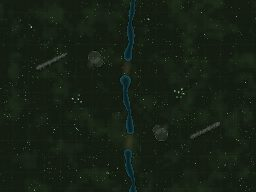
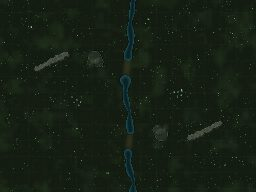
Ridge v3: interlocking angular slabs — a rock formation, not a worm

diff --git a/game.js b/game.js
@@ -5179,80 +5179,95 @@ function paintRidges(g, M) {
     const v = Math.sin(s * 127.1 + i * 311.7) * 43758.545;
     return v - Math.floor(v);
   };
+  // v3 (2026-08-04, after "giant terd"): a ridge is a CLUSTER of overlapping
+  // angular slabs — each its own rock with a dark extruded cliff face (light
+  // from the NW, so faces fall SE) and a two-tone faceted lit top, staggered
+  // off the centerline. One continuous band ALWAYS reads as a worm; multiple
+  // interlocking masses read as a rock formation. Three passes across the
+  // whole cluster (shadows, faces, tops) so overlaps merge into one landform.
   for (const [x1, y1, x2, y2, r] of ((M && M.ridges) || [])) {
     const L = Math.max(1, dist(x1, y1, x2, y2));
     const ax = (x2 - x1) / L, ay = (y2 - y1) / L;
     const nx = -ay, ny = ax;
     const seed = (x1 * 0.7 + y1 * 1.3) % 100;
-    const steps = Math.max(10, Math.round(L / 16));
-    // jagged width per step: coarse drift + per-step rock-tooth jitter,
-    // pinched to broken points at the ends
-    const wAt = (i, sign) => {
-      const t = i / steps;
-      const drift = 0.85 + 0.35 * hn(seed + sign * 7, Math.floor(i / 4));
-      const tooth = 0.75 + 0.5 * hn(seed + sign * 13, i);
-      const endPinch = Math.min(1, Math.min(i, steps - i) / 2.2);
-      return r * drift * tooth * Math.max(0.15, endPinch);
-    };
-    const pt = (i, sign, wMul, ox, oy) => {
-      const t = i / steps;
-      return [x1 + (x2 - x1) * t + nx * sign * wAt(i, sign) * wMul + (ox || 0),
-              y1 + (y2 - y1) * t + ny * sign * wAt(i, sign) * wMul + (oy || 0)];
-    };
-    const band = (wMul, ox, oy) => {
+    // generate the slab list
+    const slabs = [];
+    const spacing = r * 0.85;
+    const n = Math.max(2, Math.round(L / spacing));
+    for (let i = 0; i <= n; i++) {
+      const t = i / n;
+      const off = (hn(seed, i) - 0.5) * r * 0.55;
+      const cxx = x1 + (x2 - x1) * t + nx * off;
+      const cyy = y1 + (y2 - y1) * t + ny * off;
+      const sr = r * (0.72 + hn(seed + 2, i) * 0.55) * (i === 0 || i === n ? 0.8 : 1);
+      const rot = hn(seed + 4, i) * Math.PI * 2;
+      const verts = [];
+      const vn = 7;
+      for (let k = 0; k < vn; k++) {
+        const va = rot + (k / vn) * Math.PI * 2 + (hn(seed + 6, i * 13 + k) - 0.5) * 0.35;
+        const vr = sr * (0.72 + hn(seed + 8, i * 17 + k) * 0.45);
+        verts.push([cxx + Math.cos(va) * vr, cyy + Math.sin(va) * vr]);
+      }
+      slabs.push({ cx: cxx, cy: cyy, sr, verts, i });
+    }
+    const poly = (verts, ox, oy) => {
       g.beginPath();
-      let p = pt(0, 1, wMul, ox, oy); g.moveTo(p[0], p[1]);
-      for (let i = 1; i <= steps; i++) { p = pt(i, 1, wMul, ox, oy); g.lineTo(p[0], p[1]); }
-      for (let i = steps; i >= 0; i--) { p = pt(i, -1, wMul, ox, oy); g.lineTo(p[0], p[1]); }
+      g.moveTo(verts[0][0] + ox, verts[0][1] + oy);
+      for (const [px, py] of verts) g.lineTo(px + ox, py + oy);
       g.closePath();
     };
-    // settling shadow downhill
-    g.fillStyle = 'rgba(0,0,0,0.28)';
-    band(1.05, 8, 12); g.fill();
-    // dark rock mass — the cliff faces ARE this silhouette's edges
-    g.fillStyle = '#252b25';
-    band(1.0, 0, 0); g.fill();
-    // faceted rock top: irregular angular slabs along the crest, two lit
-    // tones alternating, each slab its own quad — no continuous stripe
-    for (let i = 0; i < steps; i += 2) {
-      const skew = (hn(seed + 3, i) - 0.5) * 8;
-      const a0 = pt(i, 1, 0.55, -3 + skew, -5);
-      const a1 = pt(Math.min(i + 2, steps), 1, 0.5, 3 + skew, -6);
-      const b1 = pt(Math.min(i + 2, steps), -1, 0.45, skew, -4);
-      const b0 = pt(i, -1, 0.5, -2 + skew, -3);
-      g.fillStyle = hn(seed + 5, i) > 0.5 ? '#3d443b' : '#474f44';
+    // pass 1: settling ground shadow, all slabs
+    g.fillStyle = 'rgba(0,0,0,0.30)';
+    for (const s of slabs) { poly(s.verts, 10, 14); g.fill(); }
+    // pass 2: the cliff FACES — each top extruded to the south-east; drawing
+    // the dark shape offset then the lit top over it makes the height read
+    g.fillStyle = '#1c211b';
+    for (const s of slabs) { poly(s.verts, s.sr * 0.30, s.sr * 0.42); g.fill(); }
+    g.fillStyle = '#272d26';
+    for (const s of slabs) { poly(s.verts, s.sr * 0.16, s.sr * 0.24); g.fill(); }
+    // pass 3: lit tops, split into two facets along a random chord
+    for (const s of slabs) {
+      const half = Math.ceil(s.verts.length / 2);
+      const rotk = Math.floor(hn(seed + 10, s.i) * s.verts.length);
+      const vs = s.verts.map((_, k) => s.verts[(k + rotk) % s.verts.length]);
+      g.fillStyle = '#3e463a';
+      poly(vs, 0, 0); g.fill();
+      g.fillStyle = 'rgba(80,90,72,0.55)';   // second facet tone over half the top
       g.beginPath();
-      g.moveTo(a0[0], a0[1]); g.lineTo(a1[0], a1[1]); g.lineTo(b1[0], b1[1]); g.lineTo(b0[0], b0[1]);
+      g.moveTo(vs[0][0], vs[0][1]);
+      for (let k = 0; k <= half; k++) g.lineTo(vs[k][0], vs[k][1]);
       g.closePath(); g.fill();
-      // occasional brighter chip catching the light
-      if (hn(seed + 9, i) > 0.72) {
-        const c = pt(i + 1, 1, 0.28, skew, -7);
-        g.fillStyle = '#565e51';
+      // NW rim light on the edges facing the light
+      g.strokeStyle = 'rgba(130,142,118,0.5)';
+      g.lineWidth = 2;
+      for (let k = 0; k < vs.length; k++) {
+        const a = vs[k], b = vs[(k + 1) % vs.length];
+        const ex = b[0] - a[0], ey = b[1] - a[1];
+        const enx = ey, eny = -ex;   // outward-ish normal
+        if (enx * -0.6 + eny * -0.8 > 0) {
+          g.beginPath(); g.moveTo(a[0], a[1]); g.lineTo(b[0], b[1]); g.stroke();
+        }
+      }
+      // a crack or two across the top
+      if (hn(seed + 14, s.i) > 0.4) {
+        g.strokeStyle = 'rgba(0,0,0,0.30)';
+        g.lineWidth = 1.6;
+        const a0 = hn(seed + 16, s.i) * Math.PI * 2;
         g.beginPath();
-        g.moveTo(c[0], c[1]); g.lineTo(c[0] + 9 + skew, c[1] - 4); g.lineTo(c[0] + 3, c[1] + 6);
-        g.closePath(); g.fill();
+        g.moveTo(s.cx + Math.cos(a0) * s.sr * 0.55, s.cy + Math.sin(a0) * s.sr * 0.55);
+        g.lineTo(s.cx + Math.cos(a0 + 2.6) * s.sr * 0.35, s.cy + Math.sin(a0 + 2.6) * s.sr * 0.35);
+        g.stroke();
       }
     }
-    // cracks: clustered, angled, varied — not ruler ticks
-    g.lineCap = 'round';
-    for (let i = 1; i < steps; i++) {
-      if (hn(seed + 21, i) < 0.45) continue;
-      const sign = hn(seed + 23, i) > 0.4 ? 1 : -1;   // more on the shadow side
-      const base = pt(i, sign, 0.55, 0, 0);
-      const out = pt(i, sign, 0.98, (hn(seed + 27, i) - 0.5) * 14, (hn(seed + 29, i) - 0.5) * 10);
-      g.strokeStyle = `rgba(0,0,0,${0.2 + hn(seed + 31, i) * 0.18})`;
-      g.lineWidth = 1.5 + hn(seed + 33, i) * 1.8;
-      g.beginPath(); g.moveTo(base[0], base[1]); g.lineTo(out[0], out[1]); g.stroke();
-    }
-    // talus: broken boulders scattered along the shadow foot
-    for (let i = 2; i < steps - 2; i += 3) {
-      if (hn(seed + 41, i) < 0.5) continue;
-      const f = pt(i, 1, 1.12, (hn(seed + 43, i) - 0.5) * 16, 6 + hn(seed + 47, i) * 8);
-      const br = 3 + hn(seed + 51, i) * 5;
+    // talus at the shadow feet of a few slabs
+    for (const s of slabs) {
+      if (hn(seed + 20, s.i) < 0.45) continue;
+      const fx2 = s.cx + s.sr * 0.7 + hn(seed + 22, s.i) * 10, fy2 = s.cy + s.sr * 0.85 + hn(seed + 24, s.i) * 8;
+      const br = 3 + hn(seed + 26, s.i) * 5;
       g.fillStyle = '#2e352d';
-      g.beginPath(); g.arc(f[0], f[1], br, 0, Math.PI * 2); g.fill();
+      g.beginPath(); g.arc(fx2, fy2, br, 0, Math.PI * 2); g.fill();
       g.fillStyle = '#3a423a';
-      g.beginPath(); g.arc(f[0] - br * 0.3, f[1] - br * 0.35, br * 0.55, 0, Math.PI * 2); g.fill();
+      g.beginPath(); g.arc(fx2 - br * 0.3, fy2 - br * 0.35, br * 0.55, 0, Math.PI * 2); g.fill();
     }
   }
 }
